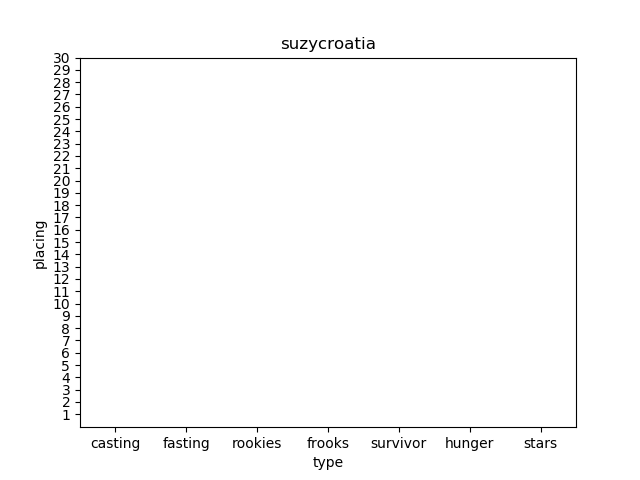
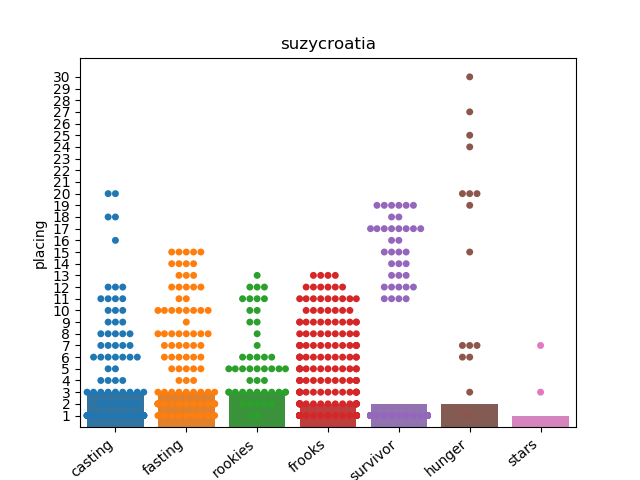
game_ data

diff --git a/python/scrape.py b/python/scrape.py
@@ -194,7 +194,10 @@ def giftplot(user='ak73'):
 #        gameplot(user)
 
 
-giftplot('RobertGuajardo')
+giftplot('lazeric')
+gameplot('suzycroatia')
+
+
 
 
 
